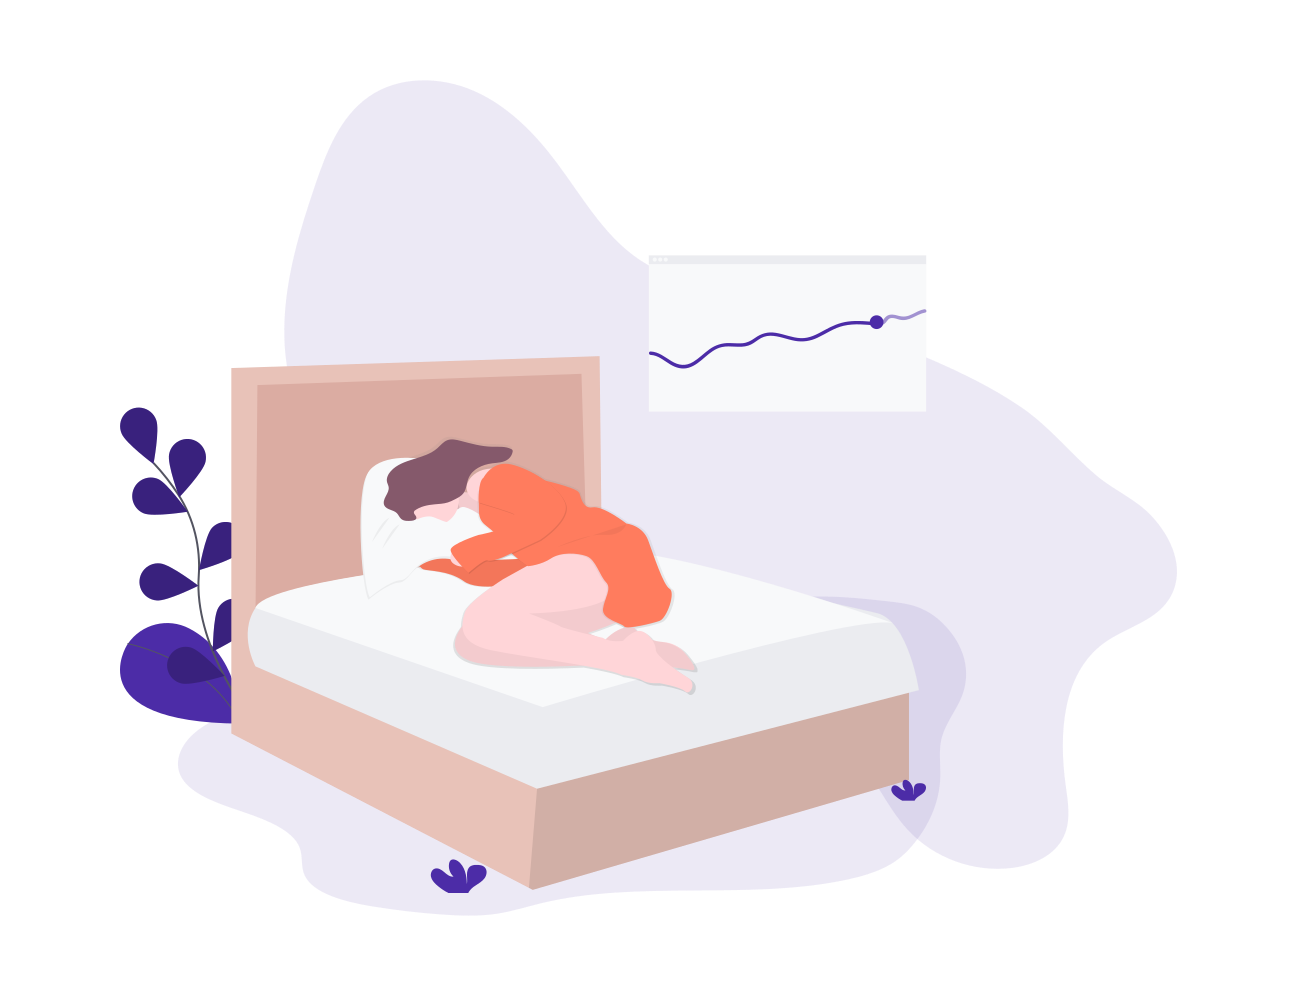
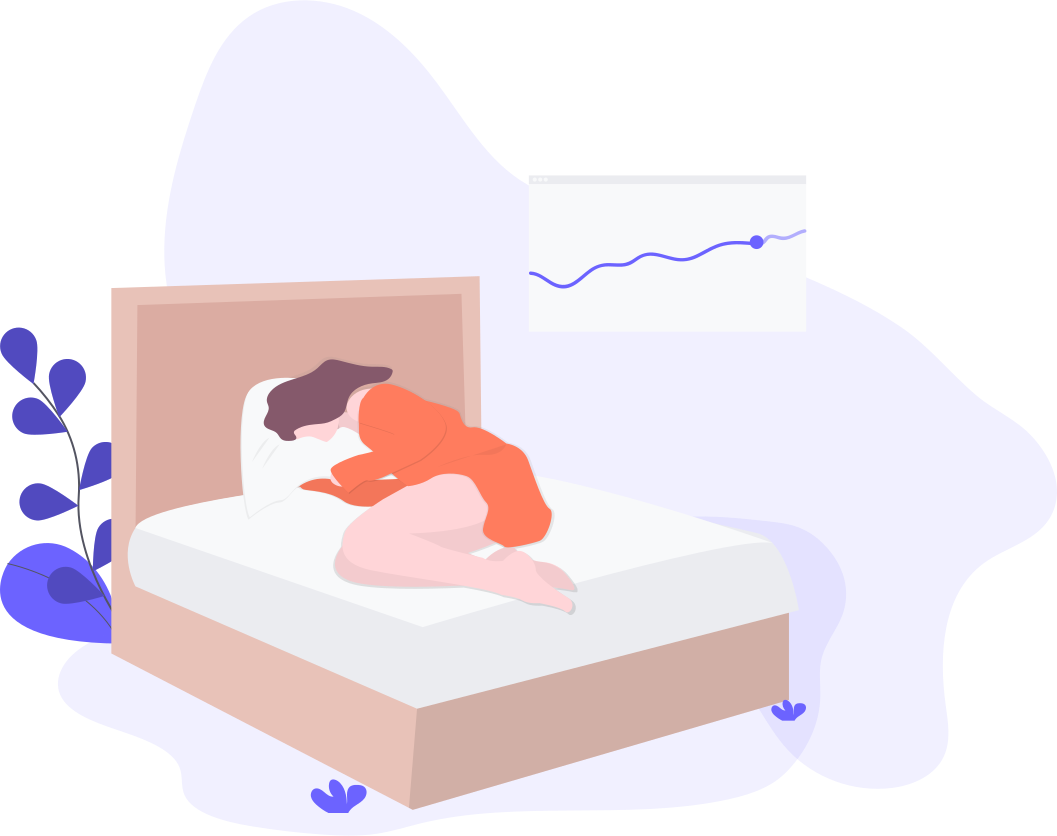
added an image to the login page

Changed region(s): [[0.0, 0.311, 0.7805, 0.9952], [0.4995, 0.2799, 0.7493, 0.3732], [0.6244, 0.5909, 0.7181, 0.6531]]

diff --git a/src/components/Login.js b/src/components/Login.js
@@ -3,7 +3,7 @@ import { redirect } from 'react-router-dom';
 import StyledFireBaseAuth from 'react-firebaseui/StyledFirebaseAuth';
 import { getAuth, EmailAuthProvider, GoogleAuthProvider } from 'firebase/auth';
 import Footer from "./Footer";
-import loginImage from "../img/login-image.svg"
+import loginImage from "../img/login-image.png"
 
 
 const firebaseUIConfig = {
@@ -31,6 +31,9 @@ function Login(props) {
                     <h1 className='login-header'>Welcome to Sleep & See</h1>
                     <StyledFireBaseAuth uiConfig={firebaseUIConfig} firebaseAuth={auth}/>
                 </section>
+                <div className="content login-image-sec">
+                    <img className="login-image" src={loginImage} alt='graph'></img>
+                </div>
             </div>
             <Footer/>
             </>

diff --git a/src/index.css b/src/index.css
@@ -231,6 +231,11 @@ p{
     align-items: center;
     margin-bottom: 2rem;
   }
+  .login-image-sec{
+    display: flex;
+    justify-content: center;
+    align-items: center;
+  }
   .login-image{
     height: 500px;
     width: 500px;
